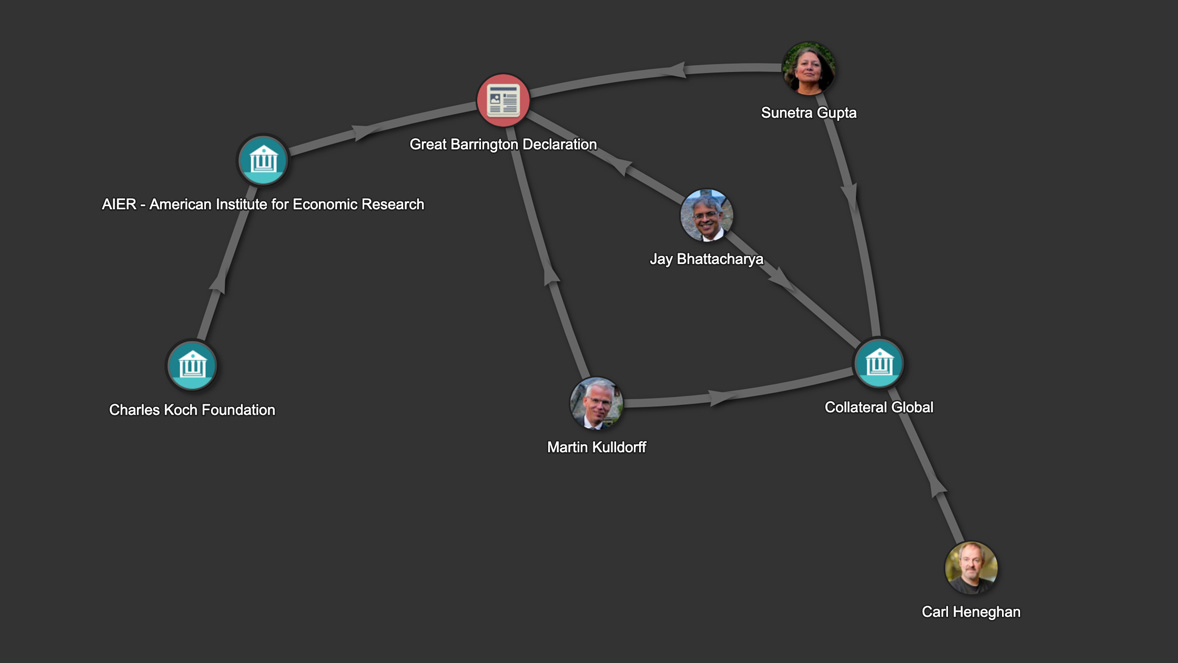
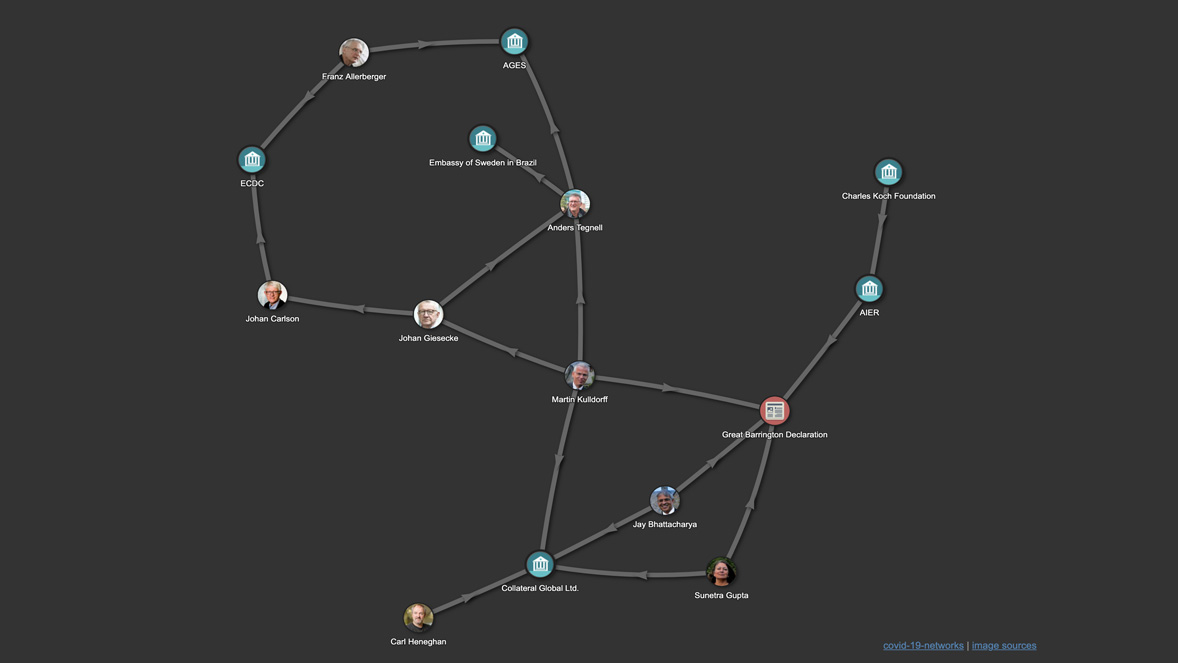
Updated descriptions. Added connections around Anders Tegnell.

diff --git a/docs/descriptions.js b/docs/descriptions.js
@@ -1,1 +1,84 @@
 var desc = {};
+
+desc.GBD = `
+<i>"A statement advocating an alternative approach to the COVID-19 pandemic. [...] The declaration was sponsored by the American Institute for Economic Research (AIER), a libertarian think tank based in Great Barrington, Massachusetts."</i>, [Wikipedia](https://en.wikipedia.org/wiki/Great_Barrington_Declaration)
+`
+
+desc.CG = `
+Nonprofit company incorporated in the UK and Wales, [ollateralglobal.org](https://collateralglobal.org/about)
+
+The scientific advisory board comprises 3 Great Barrington co-authors.
+`
+
+desc.CKF = `
+[Wikipedia](https://en.wikipedia.org/wiki/Koch_family_foundations#Charles_Koch_Foundation)
+
+The Koch brothers, also known as the ["funders of climate disinformation"](https://www.campaigncc.org/climate_change/sceptics/funders)
+
+"Groups Aligned with Right-Wing Megadonors Are Promoting Coronavirus Protests", [prwatch.org](https://www.prwatch.org/news/2020/04/13568/groups-aligned-right-wing-megadonors-are-promoting-coronavirus-protests)
+
+"The Lockdown Backlash May Be the New Tea Party Movement", [nymag.com](https://nymag.com/intelligencer/2020/04/the-lockdown-backlash-may-be-the-new-tea-party-movement.html)
+`
+
+desc.AIER = `
+American Institute for Economic Research (AIER), a libertarian think tank based in Great Barrington, Massachusetts.
+
+<i>Reporting on the declaration, Byline Times journalist Nafeez Ahmed has described the AIER as a "institution embedded in a Koch-funded network that denies climate science while investing in polluting fossil fuel industries".</i>
+
+Received a US$68,100 donation from the Charles Koch Foundation.
+
+[Wikipedia](https://en.wikipedia.org/wiki/Great_Barrington_Declaration#Sponsor)
+`
+
+// Jay Bhattacharya
+desc.jb = `
+Professor of Medicine at [Stanford University](https://profiles.stanford.edu/jay-bhattacharya)
+
+Co-Author of The Great Barrington Declaration
+
+Scientific Advisory Board [Collateral Damage](https://collateralglobal.org/about)
+`
+
+// Carl Heneghan
+desc.ch = `
+Professor of Evidence Based Medicine, [University of Oxford](https://www.phc.ox.ac.uk/team/carl-heneghan)
+
+Scientific Advisory Board [Collateral Damage](https://collateralglobal.org/about)
+`
+
+// Martin Kulldorff
+desc.mk = `
+Professor of medicine at Harvard Medical School and a biostatistician and epidemiologist at the Brigham and Women's Hospital.
+
+Co-Author of The Great Barrington Declaration
+
+Scientific Advisory Board [Collateral Damage](https://collateralglobal.org/about)
+
+Wrote a prominent e-mail to Anders Tegnell and Johan Giesecke. He thanks them <i>"for your Covid-19 work, not only important for Sweden but also for the rest of the world."</i>.
+
+<img width="468" src="./img/doc-email-kulldorff-01.png" />
+`
+
+// Sunetra Gupta
+desc.sg = `
+Professor of Theoretical Epidemiology, [University of Oxford](https://www.zoo.ox.ac.uk/people/professor-sunetra-gupta#/)
+
+Co-Author of The Great Barrington Declaration
+
+Scientific Advisory Board [Collateral Damage](https://collateralglobal.org/about)
+`
+
+// Anders Tegnell
+desc.at = `
+State Epidemiologist of the Public Health Agency of Sweden
+`
+
+// Johan Giesecke
+desc.jg = `
+Physician and Professor Emeritus at the Karolinska Institute in Stockholm.
+`
+
+// Johan Carlson
+desc.jc = `
+Director General, Public Health Agency of Sweden
+`

diff --git a/docs/graph.js b/docs/graph.js
@@ -31,14 +31,14 @@ var rawNodes = [
   },
   {
     id: 'CG',
-    label: 'Collateral Global',
+    label: 'Collateral Global Ltd.',
     shape: "circularImage",
     image: "img/icon-institution.png"
   },
 
   {
     id: 'AIER',
-    label: 'AIER - American Institute for Economic Research',
+    label: 'AIER',
     shape: "circularImage",
     image: "img/icon-institution.png"
   },
@@ -47,7 +47,54 @@ var rawNodes = [
     label: 'Charles Koch Foundation',
     shape: "circularImage",
     image: "img/icon-institution.png"
-  }
+  },
+
+  {
+    id: 'at',
+    label: "Anders Tegnell",
+    shape: "circularImage",
+    image: "img/person-anders-tegnell.jpg"
+  },
+  {
+    id: 'jg',
+    label: "Johan Giesecke",
+    shape: "circularImage",
+    image: "img/person-johan-giesecke.jpg"
+  },
+  {
+    id: 'jc',
+    label: "Johan Carlson",
+    shape: "circularImage",
+    image: "img/person-johan-carlson.jpg"
+  },
+  {
+    id: 'fa',
+    label: "Franz Allerberger",
+    shape: "circularImage",
+    image: "img/person-franz-allerberger.jpg"
+  },
+
+  {
+    id: 'ECDC',
+    label: 'ECDC',
+    shape: "circularImage",
+    image: "img/icon-institution.png"
+  },
+
+  {
+    id: 'ESB',
+    label: 'Embassy of Sweden in Brazil',
+    shape: "circularImage",
+    image: "img/icon-institution.png"
+  },
+  {
+    id: 'AGES',
+    label: 'AGES',
+    shape: "circularImage",
+    image: "img/icon-institution.png"
+  },
+
+
 ];
 
 
@@ -58,14 +105,30 @@ var rawEdges = [
 
   { from: 'mk', to: 'GBD', title: 'Co-Author', font: { align: "middle" } },
   { from: 'mk', to: 'CG', title: 'Scientific Advisory Board', font: { align: "middle" } },
+  { from: 'mk', to: 'at', title: '"Thank you"-E-Mail', font: { align: "middle" } },
+  { from: 'mk', to: 'jg', title: '"Thank you"-E-Mail', font: { align: "middle" } },
 
   { from: 'sg', to: 'GBD', title: 'Co-Author', font: { align: "middle" } },
   { from: 'sg', to: 'CG', title: 'Scientific Advisory Board', font: { align: "middle" } },
 
   { from: 'ch', to: 'CG', title: 'Scientific Advisory Board', font: { align: "middle" } },
 
-  { from: 'CKF', to: 'AIER', title: 'sponsored by', font: { align: "middle" } },
-  { from: 'AIER', to: 'GBD', title: 'AIER received $68,100 from Charles Koch Foundation', font: { align: "middle" } },
+  { from: 'AIER', to: 'GBD', title: 'sponsored by', font: { align: "middle" } },
+  { from: 'CKF', to: 'AIER', title: 'AIER received $68,100 from Charles Koch Foundation', font: { align: "middle" } },
+
+
+  { from: 'jg', to: 'at', title: 'predecessor of', font: { align: "middle" } },
+
+  { from: 'jg', to: 'jc', title: 'hired', font: { align: "middle" } },
+
+  { from: 'jc', to: 'ECDC', title: 'Management Board Member', font: { align: "middle" } },
+
+
+  { from: 'at', to: 'ESB', title: 'Webinar', font: { align: "middle" } },
+  { from: 'at', to: 'AGES', title: 'Webinar', font: { align: "middle" } },
+
+  { from: 'fa', to: 'AGES', title: 'Head of Division Public Health', font: { align: "middle" } },
+  { from: 'fa', to: 'ECDC', title: 'Advisory Forum Alternate', font: { align: "middle" } },
 ];
 
 // global for node scripts

diff --git a/docs/network_frame.html b/docs/network_frame.html
@@ -142,7 +142,7 @@
           arrows: { middle: { enabled: true, scaleFactor: 0.2 }}
         },
         layout: {
-          randomSeed: 12345
+          randomSeed: 1234
         },
         interaction: {
           zoomSpeed: 0.7

diff --git a/IMG.md b/IMG.md
@@ -5,3 +5,4 @@ Image | Name | Source | License
 <img src="docs/img/person-jay-bhattacharya.jpg" width="32" /> | Jay Bhattacharya | [Wikipedia](https://commons.wikimedia.org/wiki/File:Kulldorff_gupta_bhattacharya.jpg) | [Creative Commons Attribution 4.0 International](https://creativecommons.org/licenses/by/4.0/deed.en)
 <img src="docs/img/person-martin-kulldorff.jpg" width="32" /> | Martin Kulldorff | [Wikipedia](https://commons.wikimedia.org/wiki/File:Kulldorff_gupta_bhattacharya.jpg) | [Creative Commons Attribution 4.0 International](https://creativecommons.org/licenses/by/4.0/deed.en)
 <img src="docs/img/person-sunetra-gupta.jpg" width="32" /> | Sunetra Gupta | [Wikipedia](https://commons.wikimedia.org/wiki/File:Kulldorff_gupta_bhattacharya.jpg) | [Creative Commons Attribution 4.0 International](https://creativecommons.org/licenses/by/4.0/deed.en)
+<img src="docs/img/person-anders-tegnell.jpg" width="32" /> | Anders Tegnell | [Wikipedia](https://commons.wikimedia.org/wiki/File:Anders_Tegnell_in_2020.jpg) | [Creative Commons Attribution-Share Alike 4.0 International](https://creativecommons.org/licenses/by-sa/4.0/deed.en)

diff --git a/CHANGELOG.md b/CHANGELOG.md
@@ -1,0 +1,9 @@
+# Changelog
+
+## 16.11.2020 21:30
+
+Updated descriptions. Added connections around Anders Tegnell.
+
+## 27.04.2021
+
+Initial graph.
